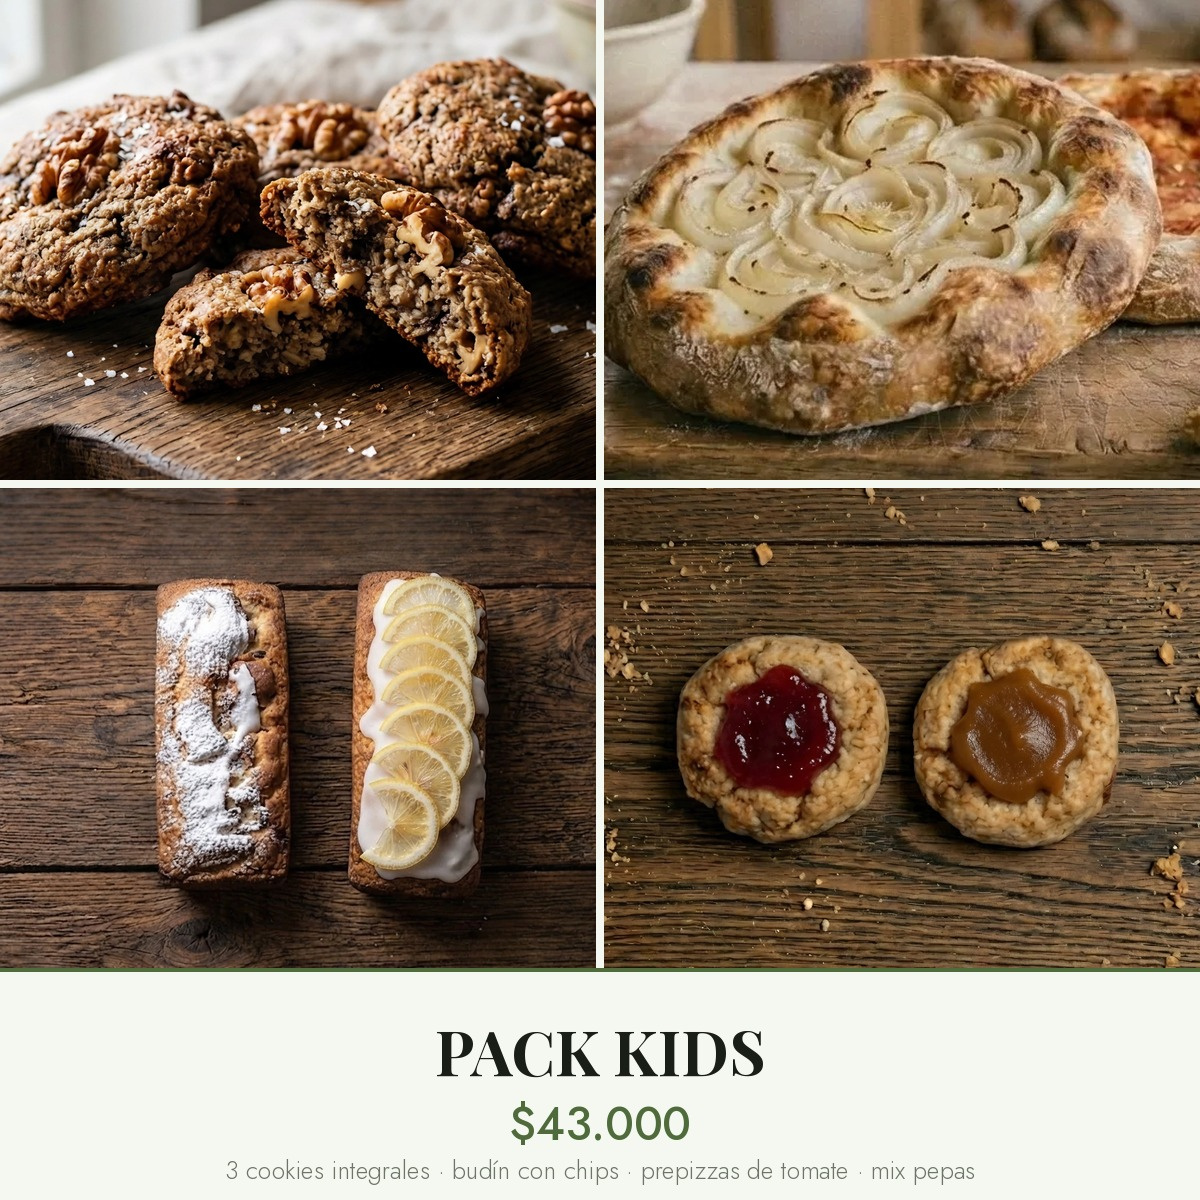
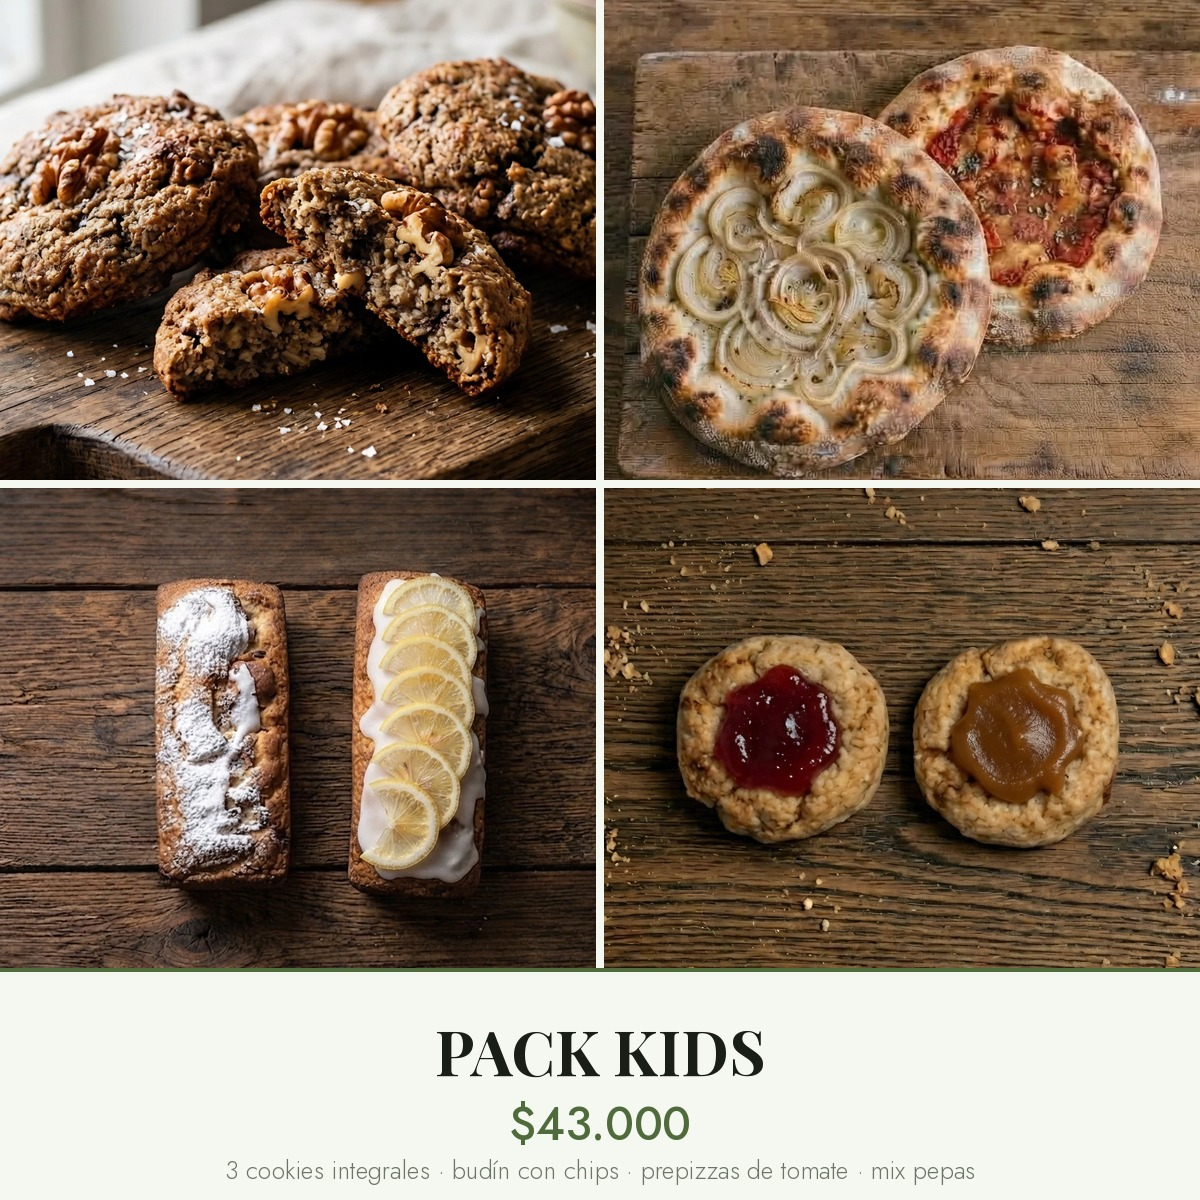
Actualiza los collages con la foto cenital nueva de las prepizzas
Juan subio a la tienda una foto cenital de las dos prepizzas sobre tabla,
con la de cebolla blanca adelante y la de tomate atras, y reemplazo con
ella la segunda imagen de la ficha. Se baja de ahi, se recorta a las dos
prepizzas y se regeneran los cinco collages.

La foto principal de la ficha sigue siendo la de cebolla morada: el
pendiente de dar vuelta el orden en el panel sigue en pie.

Claude-Session: https://claude.ai/code/session_01WDg34Fefay5F9u1RxAnMAo

Changed region(s): [[0.4933, 0.0, 1.0, 0.4008]]

diff --git a/emprendimiento/textos/packs/LEEME.md b/emprendimiento/textos/packs/LEEME.md
@@ -14,7 +14,7 @@
 
 `generar-collages.py` los rehace. Descarga las fotos de la tienda y las compone; si cambian las fotos de producto, se corre de nuevo.
 
-> 🧅 **La prepizza sale de la SEGUNDA foto de su ficha, no de la primera** *(cambiado el 17/09)*. La primera muestra **cebolla morada** y el producto lleva **cebolla blanca**; la segunda ya la muestra bien. El recorte se guarda como `fotos/prepizzas_cebolla_blanca.webp`.
+> 🧅 **La prepizza sale de la SEGUNDA foto de su ficha, no de la primera** *(cambiado el 17/09)*. La primera muestra **cebolla morada** y el producto lleva **cebolla blanca**. Juan subió a la tienda una foto cenital nueva con las dos prepizzas —la de cebolla blanca adelante, la de tomate atrás— y esa es la que usan los cinco collages. El recorte se guarda como `fotos/prepizzas_cebolla_blanca.webp`.
 >
 > ⚠ **La foto de la ficha sigue estando mal.** En la tienda, la imagen principal de Prepizzas x2 es la de cebolla morada: **conviene cambiar el orden de las fotos en el panel** para que la de cebolla blanca quede primera. Si no, el cliente ve un producto y recibe otro.
 
